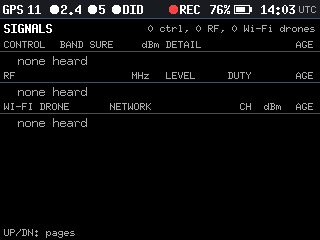
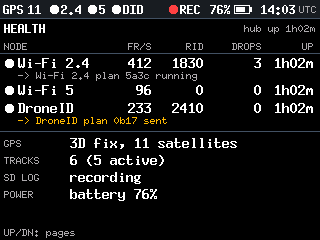
Small fixes found while fact-checking the documentation
- crates/screen: the `health_assigned` snapshot test pressed Down twice,
  which since the Signals page was added lands on Signals, not Health.
  Three presses; the picture now shows the assignment lines it was made
  for, and docs/how/coverage.md uses it.
- rid-view: a node-lr hello line ("node":"lr", no "role") now maps to
  the Aero role, with tests; the --demo help says the two circling drones
  are the Remote ID ones.
- droneid-file: the header comment listed --llr-dump, which the parser
  never accepted, and described --failures too narrowly.
- Comments brought in line with the code (no behaviour change): the hub's
  `selftest`, `fakenode` and `gpsloop` feature notes (pins since the
  2026-11-17 header swap) and its pointer to a README that does not
  exist; the console command list; airlink's header length (6 bytes) and
  how the gateway splits a batch; the wired-bus check values and the
  IdFlood detail layout in crates/link; height above take-off needing no
  airspace pack; O4 decryption existing in crates/djicrypt; node-lr
  using the wired-bus feature.
- docs: drop the notes that pointed out these mismatches.

Firmware changes are comments only and were not rebuilt.

diff --git a/crates/link/src/lib.rs b/crates/link/src/lib.rs
@@ -299,8 +299,9 @@ pub enum Command {
     /// end of this command.
     JoinSlot { epoch: u16, slots: u8, slot_us: u16 },
     /// Protocol 10, wired bus: the node with station address `mac` is bus
-    /// address `addr` for this `epoch`. `check` is `wirebus::crc` over the
-    /// other fields (a garbled grant must never bind the wrong node).
+    /// address `addr` for this `epoch`. `check` is `wirebus::address_check`:
+    /// the CRC over the letter `A` and the other fields (a garbled grant
+    /// must never bind the wrong node).
     Address { mac: [u8; 6], addr: u8, epoch: u16, check: u16 },
     /// Protocol 11: "it is now `utc_ms`" (Unix milliseconds), about once a
     /// second, for nodes that need UTC (FLARM / OGN hopping, [`AeroMode`]).
@@ -600,9 +601,15 @@ pub enum ThreatKind {
     /// drone IDs (or aircraft addresses, or control links) a second than a
     /// real sky produces: a flood of forged identities meant to bury real
     /// ones (`tracker::probation`, docs/SPOOFING.md "Floods"). `detail`:
-    /// bits 24-31 which table (0 drones, 1 aircraft, 2 control links), bits
-    /// 0-15 new identities a second over the window; `count` = new
-    /// identities in the window, `window_ms` = the window.
+    /// bits 24-31 which table (0 drones, 1 aircraft, 2 control links, 3 one
+    /// node discarding a flood of drone IDs). Tables 0-2: bits 16-23 which
+    /// rule raised it (0 new a second, 1 new in a minute, 2 active at once;
+    /// only the drone table has the last two), bits 0-15 that rule's
+    /// reading (new identities a second, or the count). Table 3: bits 16-23
+    /// new drone IDs a second from that node that never confirmed, bits
+    /// 0-15 frames a second it discarded. `count` = new identities in the
+    /// window, `window_ms` = the window. Encoded and read in
+    /// `tracker::probation`.
     IdFlood,
 }
 
@@ -1016,9 +1023,10 @@ pub enum Frame {
     Threat(ThreatSighting),
     /// Protocol 10, wired bus: a node without an address answering a
     /// [`Command::JoinSlot`]. `want` is the address it held last (0: none),
-    /// so the hub can give it back; `check` is `wirebus::crc` over `mac` and
-    /// `want` (two joins in the same slot collide on the wire, and a garbled
-    /// join must not bind a made-up address).
+    /// so the hub can give it back; `check` is `wirebus::join_check`: the CRC
+    /// over the letter `J`, `mac` and `want` (two joins in the same slot
+    /// collide on the wire, and a garbled join must not bind a made-up
+    /// address).
     BusJoin { mac: [u8; 6], want: u8, check: u16 },
     /// Protocol 10, wired bus: the end of a node's answer to a
     /// [`Command::Poll`]. `seq` numbers the answer (1-255, 0 = the answer

diff --git a/tools/rid-view/src/main.rs b/tools/rid-view/src/main.rs
@@ -100,9 +100,9 @@ OPTIONS:
                              the time).
     --duration SECS          Stop live inputs (--ble, --sniffle) after SECS
                              seconds. With --once, the default is 10.
-    --demo                   Add two simulated drones circling --own-pos
-                             (or Philadelphia City Hall), a simulated
-                             wfb-ng FPV link, three simulated aircraft
+    --demo                   Add two simulated Remote ID drones circling
+                             --own-pos (or Philadelphia City Hall), a
+                             simulated wfb-ng FPV link, three simulated aircraft
                              (ADS-B), and one of each protocol-4 signal: a
                              DJI drone on OcuSync DroneID (also in Remote
                              ID), an encrypted O4 drone, a DJI Wi-Fi
@@ -310,7 +310,38 @@ fn role_from_hello(v: &serde_json::Value) -> Option<NodeRole> {
         "fpv" => Some(NodeRole::Fpv),
         "droneid" => Some(NodeRole::DroneId),
         "gateway" => Some(NodeRole::Gateway),
+        // node-lr's hello line names the board ("node":"lr") and carries no
+        // "role"; its Status frames say Aero.
+        "aero" | "lr" => Some(NodeRole::Aero),
         _ => None,
+    }
+}
+
+#[cfg(test)]
+mod hello_tests {
+    use super::*;
+
+    fn role(line: &str) -> Option<NodeRole> {
+        role_from_hello(&serde_json::from_str(line).unwrap())
+    }
+
+    #[test]
+    fn hello_roles_are_read_whatever_their_case() {
+        assert_eq!(role(r#"{"t":"hello","role":"Wifi24"}"#), Some(NodeRole::Wifi24));
+        assert_eq!(role(r#"{"t":"hello","node":"ble"}"#), Some(NodeRole::Ble));
+        assert_eq!(role(r#"{"t":"hello","role":"gateway"}"#), Some(NodeRole::Gateway));
+    }
+
+    #[test]
+    fn the_lr2021_node_is_an_aero_node() {
+        assert_eq!(role(r#"{"t":"hello","node":"lr","fw":"node-lr"}"#), Some(NodeRole::Aero));
+        assert_eq!(role(r#"{"t":"hello","role":"Aero"}"#), Some(NodeRole::Aero));
+    }
+
+    #[test]
+    fn an_unknown_role_is_no_role() {
+        assert_eq!(role(r#"{"t":"hello","node":"toaster"}"#), None);
+        assert_eq!(role(r#"{"t":"hello"}"#), None);
     }
 }
 

diff --git a/firmware/hub-p4/src/console.rs b/firmware/hub-p4/src/console.rs
@@ -19,14 +19,24 @@
 //! run, and straight to esp-println before that. Panics still print through
 //! esp-println (blocking, ROM routine), which is what a panic wants.
 //!
-//! Commands (one character, no Enter needed), as on the S3 hub's USB:
-//!   `p` set own position to the test point (manual source)
+//! Commands (one character, no Enter needed), as on the S3 hub's USB; they
+//! are handled by `command` in `main.rs`, whose `h` text is the full list:
+//!   `p` set own position to the test point (manual source); bench builds
+//!       only (feature `testpoint`)
 //!   `c` clear the manual own position
+//!   `b` time the airspace lookups
+//!   `a` aero nodes: step through auto and each single mode
 //!   `m` hub moved: forget the GPS home the spoofing checks learned
 //!   `H` accept the new GPS home the hub found (after a "NOT adopted" line)
 //!   `T` accept GPS time as it is now (after a time jump / time floor alarm)
 //!   `L` type one site line (node position, mute an alarm; `tracker::site`)
+//!   `n` type a note into the evidence log
+//!   `k` evidence checkpoint now
+//!   `r` replay the evidence file over the console
+//!   `u` evidence records also streamed on the console, on or off
+//!   `e` stop cleanly: shutdown event, last checkpoint, flush the card
 //!   `h` / `?` help
+//! Builds with the bench feature `faulttest` also take `fault ...` lines.
 
 use core::cell::RefCell;
 use core::sync::atomic::{AtomicBool, AtomicU32, Ordering::Relaxed};

diff --git a/crates/airlink/src/lib.rs b/crates/airlink/src/lib.rs
@@ -1,9 +1,10 @@
 //! ESP-NOW between radio nodes and a gateway (protocol "RS" v1).
 //!
 //! The wired link is a byte stream of COBS-delimited `link` frames. Over the
-//! air we keep exactly those bytes and only add a 5-byte header: a node packs
-//! as many whole frames as fit into one ESP-NOW packet, and the gateway feeds
-//! the payload straight into a `link::Decoder`. One packet per batch rather
+//! air we keep exactly those bytes and only add a 6-byte header: a node packs
+//! as many whole frames as fit into one ESP-NOW packet, and the gateway splits
+//! the payload back into frames and relays those a node may originate
+//! (`link::origin::node_batch`). One packet per batch rather
 //! than per frame is the main efficiency lever: every ESP-NOW packet costs a
 //! preamble, a MAC header, an ACK and a contention window regardless of size,
 //! and a Wi-Fi node is deaf to drones while it transmits.

diff --git a/firmware/hub-p4/src/faa.rs b/firmware/hub-p4/src/faa.rs
@@ -5,8 +5,8 @@
 //!   logger (`sd.rs`), a block at a time, and checked (CRC) once. A missing
 //!   or damaged pack turns off the checks that need it (airspace, facility
 //!   map, terrain height, line of sight, 91.119); the night check and the
-//!   Remote ID checks still run, and a height reported "above ground" by the
-//!   drone is still checked. Once loaded, the pack stays in PSRAM even if
+//!   Remote ID checks still run, and a height the drone reports as "above
+//!   ground" or "above take-off" is still checked. Once loaded, the pack stays in PSRAM even if
 //!   the card is pulled.
 //! - **Engine.** `faarules::Engine` runs once a second over the tracker.
 //!   It has one entry for every drone and aircraft the tracker can hold

diff --git a/tools/droneid-file/src/main.rs b/tools/droneid-file/src/main.rs
@@ -2,14 +2,14 @@
 //!
 //! ```text
 //! droneid-file <file> --rate <samples/s> [--format cf32|ci8|ci16]
-//!              [--redact] [--no-turbo] [--failures] [--llr-dump <file>]
+//!              [--redact] [--no-turbo] [--failures]
 //! ```
 //!
 //! Prints one JSON line per burst found: where it is, frequency offset,
 //! SNR, which decode path worked (`systematic` or `turbo`), CRC status and
 //! the decoded fields. `--redact` masks the serial number and UUID (use it
 //! when sharing output: they identify a real aircraft and its owner).
-//! `--failures` also prints spans that failed synchronisation.
+//! `--failures` also prints each span that failed to decode, with its error.
 
 use std::io::Write;
 use std::process::ExitCode;

diff --git a/crates/faarules/src/lib.rs b/crates/faarules/src/lib.rs
@@ -8,7 +8,7 @@
 //! # What is checked (PLAN.md checks 1-7)
 //! | Rule | What | Needs pack |
 //! |---|---|---|
-//! | [`Rule::Height`] | more than 400 ft above ground (107.51(b), 44809(a)(6)) | terrain, unless the drone sends height above ground |
+//! | [`Rule::Height`] | more than 400 ft above ground (107.51(b), 44809(a)(6)) | terrain, unless the drone sends height above ground or above take-off |
 //! | [`Rule::FacilityMap`] | above the UAS Facility Map (LAANC) ceiling (107.41) | yes |
 //! | [`Rule::Controlled`] | inside Class B/C/D/E surface airspace, a note: often authorized (107.41, 44809(a)(5)) | yes |
 //! | [`Rule::Area`] | prohibited / restricted / national-security / stadium / TFR / national defense areas | yes |

diff --git a/crates/droneid/src/o4plain.rs b/crates/droneid/src/o4plain.rs
@@ -1,6 +1,7 @@
 //! Parsers for O4 **plaintext**: what a CRYP auxiliary field or an INFP
 //! record contains once a separate decryption layer (not part of this
-//! crate, and not built yet) has turned its ciphertext back into bytes.
+//! crate: `crates/djicrypt`, which works only with a key the owner supplies
+//! at run time) has turned its ciphertext back into bytes.
 //!
 //! This module does no cryptography and never sees a key: it takes the
 //! decrypted bytes and checks and reads them, exactly like

diff --git a/crates/screen/tests/snapshots.rs b/crates/screen/tests/snapshots.rs
@@ -461,7 +461,7 @@ fn health_assigned() {
         }),
     ]);
     let mut ui = Ui::default();
-    press(&mut ui, &st, &[Button::Down, Button::Down]);
+    press(&mut ui, &st, &[Button::Down, Button::Down, Button::Down]);
     ui.tick(NOW + 5_000);
     shot("health_assigned", &ui, &st);
 }

diff --git a/docs/dev/protocol.md b/docs/dev/protocol.md
@@ -657,10 +657,6 @@ Every packet starts with `HEADER = 6` bytes:
 | 3 | 1 | kind | `1` Beacon, `2` Frames, `3` Command |
 | 4 | 2 | seq | `u16`, little-endian |
 
-> [!NOTE]
-> The module comment at the top of `crates/airlink/src/lib.rs` says "a 5-byte header"; the constant
-> `HEADER` and every builder use 6 bytes, as does `docs/ESPNOW.md`. The code is right.
-
 `parse()` returns `None` for anything else: wrong magic, an unknown version or kind, fewer than 6
 bytes, or a sealed packet too short to hold a trailer. Other ESP-NOW users share the air, and are
 ignored that way.
@@ -786,11 +782,6 @@ confused:
 | `Address.check` | `"A"`, `mac`, `addr`, `epoch` as two bytes little-endian (`address_check`) |
 | `BusDone.crc` | every byte of the answer before the `BusDone` frame, then `addr`, `seq`, `more` as 0/1 (`done_crc`) |
 
-> [!NOTE]
-> The doc comments on `BusJoin` and `Address` in `crates/link/src/lib.rs` describe the check as
-> `wirebus::crc` "over the other fields"; the implementation also mixes in the `"J"` or `"A"`
-> prefix. Use `wirebus::crc::join_check` and `address_check`.
-
 **Polling.** One answer in flight per node (stop-and-wait). A polled node sends whole units (a
 frame, or a `Via` with its frame) up to `budget` bytes, always at least one unit if any is waiting,
 then a `BusDone`. The hub keeps an answer only if the CRC matches and acknowledges it in the next
@@ -892,10 +883,11 @@ rid-view reads only a few keys and shows the rest as a summary:
 
 | Line | Keys rid-view uses | Where they come from |
 |---|---|---|
-| `hello` | `role`, or else `node` (`wifi24`, `wifi5`, `ble`, `fpv`, `droneid`, `gateway`, compared ignoring case: node-wifi sends `Wifi24`) | node-wifi prints `role` (plus `fw`, `ver`, `chip`, `proto`, `fcs`, `can`, `images`, `plan_id`, `plan`, `reset`, `faulttest`, `bench`); node-ble prints `node: "ble"` (plus `fw`, `chip`, `proto`, `scan`, `uart_baud`, `espnow`, `can`, `images`, `plan_id`, `reset`, `faulttest`, `bench`) |
+| `hello` | `role`, or else `node` (`wifi24`, `wifi5`, `ble`, `fpv`, `droneid`, `gateway`, `aero` or `lr`, compared ignoring case: node-wifi sends `Wifi24`) | node-wifi prints `role` (plus `fw`, `ver`, `chip`, `proto`, `fcs`, `can`, `images`, `plan_id`, `plan`, `reset`, `faulttest`, `bench`); node-ble prints `node: "ble"` (plus `fw`, `chip`, `proto`, `scan`, `uart_baud`, `espnow`, `can`, `images`, `plan_id`, `reset`, `faulttest`, `bench`) |
 | `stats` | `fps` and `drop` (Wi-Fi node), or `adv` per `win_ms` and `tot_drops` (BLE node) | `firmware/node-wifi/src/report.rs` `StatsLine`; `firmware/node-ble/src/out.rs` `StatsLine` |
 
-The node-lr `hello` line says `"node":"lr"`, which rid-view does not map to a role.
+The node-lr `hello` line says `"node":"lr"` and carries no `role`; rid-view reads it as the
+`Aero` role.
 
 ### Other line types
 

diff --git a/docs/how/coverage.md b/docs/how/coverage.md
@@ -113,7 +113,10 @@ Bluetooth, DroneID, FPV 5.8, ADS-B, Gateway, LR radio), its frames per second, R
 drops and how long it has been up. A node that stops reporting shows **NOT RESPONDING**.
 
 On a hub that assigns jobs (the P4), each node also gets a small line under it with what it was
-asked to do (the picture above has no such lines), for example `-> Wi-Fi 2.4 plan 5a3c running` (`crates/screen/src/render.rs`).
+asked to do, for example `-> Wi-Fi 2.4 plan 5a3c running` (`crates/screen/src/render.rs`):
+
+![The Health page with three nodes; under Wi-Fi 2.4 a line reads "Wi-Fi 2.4 plan 5a3c running", and under DroneID a highlighted line reads "DroneID plan 0b17 sent"](../images/screen/health_assigned.png)
+
 "running" means the node has echoed that plan back; "sent", in the highlight colour, means the
 hub sent it and is still waiting.
 

diff --git a/docs/dev/tools.md b/docs/dev/tools.md
@@ -265,8 +265,7 @@ cargo run --release -p droneid-file -- caps/c5-1.cs16 --rate 40000000 --format c
 
 Each line gives position, frequency offset, SNR, which decode path worked (`systematic` or
 `turbo`), CRC status and the decoded fields; O4 records are reported as encrypted, not decrypted.
-**Reads:** the recording. **Writes:** stdout only. The file's doc comment also lists
-`--llr-dump <file>`; the argument parser does not accept it as of 2026-11-18.
+**Reads:** the recording. **Writes:** stdout only.
 
 Source: `tools/droneid-file/src/main.rs`.
 
